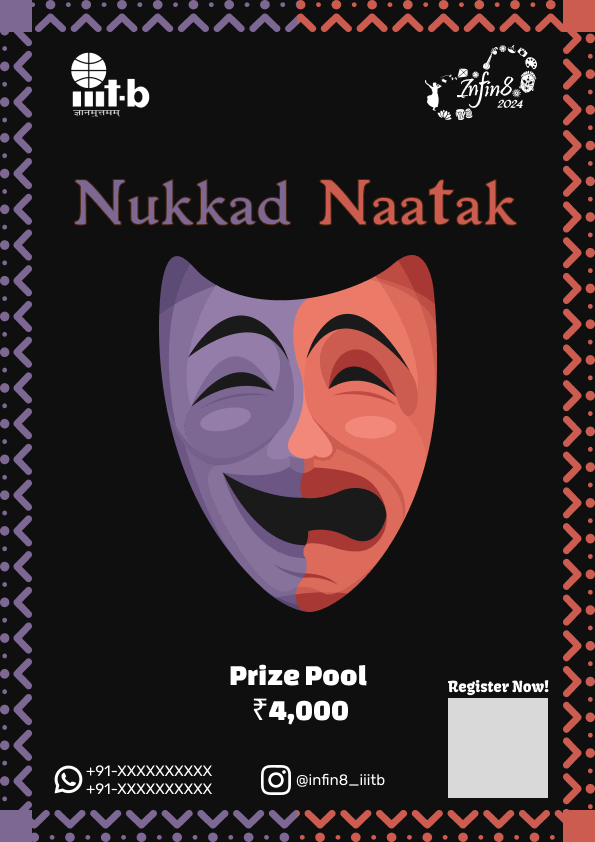
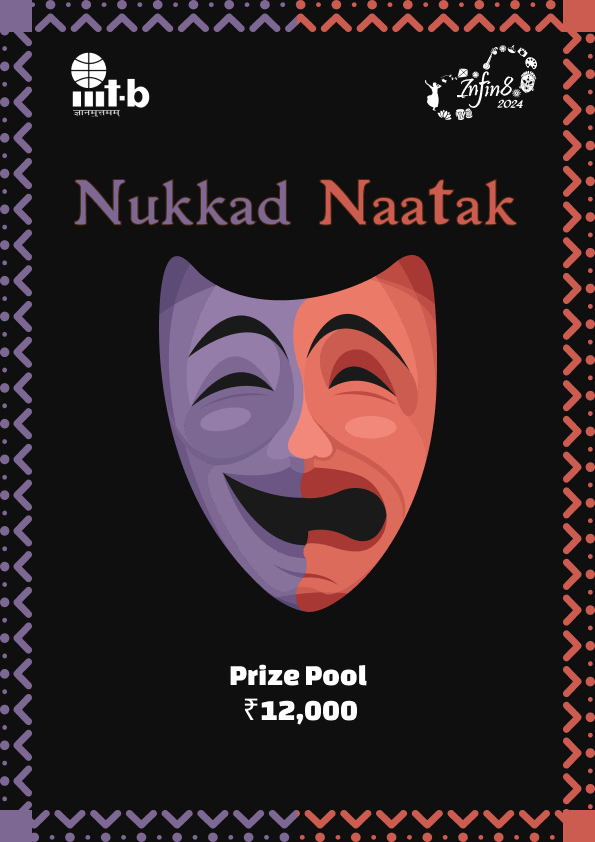
add images

diff --git a/src/content/Events.js b/src/content/Events.js
@@ -177,7 +177,7 @@ const Eventss = [
     {
       title: "Case in Point ",
       description: "A Brand challenge competition where participants get a Business oriented Case study problem on which they have to come up with a solution in the form of presentation and present in front of judges. The Company you are working in is facing a situation (problem statement). Now it's solely up to the participant to turn the company's fortunes around. The task is to come up with solutions and help the company with new strategies and some innovative solutions.",
-      prizePool: 5000,
+      prizePool: 13000,
       eventId: "27",
       lastDate:" 11th Feb 11:59 pm",
       rules:[
@@ -301,7 +301,7 @@ const Eventss = [
       spocs: ["Amar Pratap Singh", "Dhruv Gupta"]
     },
     {
-      title: "Echeos of Expressions",
+      title: "Echoes of Expressions",
       description: "",
       prizePool: 4000,
       eventId: "13",
@@ -697,7 +697,7 @@ const events = [
 
 ,
   {
-    title: "Echeos of Expressions",
+    title: "Echoes of Expressions",
     link:"https://forms.gle/iMTTWLP2d7TnB5yXA",
 
     description: "Amidst the chaos of life, immerse yourself in the cathartic world of Slam Poetry. This competition beckons individuals to take a breather, step onto the stage, and unleash the power of spoken word to express their innermost thoughts, emotions, and reflections.",
@@ -772,7 +772,7 @@ const events = [
     "Speaker Points: The speaker gains a point if the challenge is deemed incorrect. Speakers also earn 2 points if they are speaking when the 60 seconds expire.",
     "Bonus Points: Entertaining challenges and speeches, even if not entirely correct, may receive bonus points at the moderator's discretion. Witty interjections that amuse the audience can lead to mutual point gains for the challenger and speaker.",
     "When a correct challenge is made, the challenger takes over the topic for the remainder of the minute or until they are correctly challenged.",
-    "The game rewards those who make entertaining challenges, offering opportunities for quick points and amusing interjections."
+    "The game rewards those who make entertaining challenges, offering opportunities for quick points and amusing interjections.","Reference - Please watch the first few rounds in the video below for reference. It’s a very fun and light-hearted event so we might have bonus points for entertaining speeches and challenges ;) https://www.youtube.com/watch?v=2Zu-2eNYmMM"
   ],
   contacts: [
     { name: "Vishruth Vijay", number: "9449960095" },
@@ -911,7 +911,7 @@ const events = [
     lastDate:" 10th Feb 11:59 pm",
     rules: [
       "Minimum 2 IIITB members, current or alumni.",
-      "Max 5 in a squad and on time. If the team isn't filled on start time, the team has to play handicapped.",
+      "Max 4 in a squad and on time. If the team isn't filled on start time, the team has to play handicapped.",
       "You are only allowed to play mobile phones. (No tablets and No controllers allowed)",
       "Cheating, aim assists, emulation, wall hacks or any tampering with the BGMI client will lead to instaban from the match and tournament.",
       "Scoring will be based on position and kills",
@@ -949,7 +949,7 @@ const events = [
   ,
   {
     title: "Infinitude",
-    link:"https://forms.gle/SJ1QFAUyKY7SG7A19",
+    link:"https://forms.gle/ikiT38tRQThoJBE56",
 
     description:
       "Step into the cultural tapestry of Infinitude, a group dance competition that adds a dynamic flair to our festivities! Embrace the opportunity with a nominal registration fee and the allure of enticing prizes for the top performers. Let the rhythm of your collective expression become a highlight of our cultural celebration!",
@@ -972,7 +972,7 @@ const events = [
   },
   {
     title: "Cut to the Chase",
-    link:"https://forms.gle/h3966zymr2QeyR2b7",
+    link:"https://docs.google.com/forms/d/e/1FAIpQLSdU8y0o_62fZ_RpcL50Ht-7Ho6RtuYXHCxYpkzPc7O3xL4nbw/viewform?usp=sf_link",
 
     description:
       "A picture speaks a thousand words, a film is a million pictures… do the math! Show off your writing, acting, and editing prowess to influence the masses with your short yet impactful film.",

diff --git a/src/content/OrgComm.js b/src/content/OrgComm.js
@@ -3,60 +3,70 @@ const OrgComm=[
         name:"Rutuja Prabhudesai",
         Rollno:"sac",
         colour:"white",
+        link:"https://www.instagram.com/rutuja.prabhudesai?igsh=bDVjbHU4Y2M3dzkw",
         imageDestination:"https://encrypted-tbn0.gstatic.com/images?q=tbn:ANd9GcSHsHHeEkVexOjk8riVmMH60PXLO_-UQzpBcd12qMNikQswtTrpzJLerzxK1YaKQ9q_9XE&usqp=CAU"
     },
     {
         name:"Aditi Singh",
         Rollno:"sac",
         colour:"white",
+        link:"https://www.instagram.com/aditisingh0409?igsh=MWN0dDk4c3ZmMmg0bw==",
         imageDestination:"https://encrypted-tbn0.gstatic.com/images?q=tbn:ANd9GcSHsHHeEkVexOjk8riVmMH60PXLO_-UQzpBcd12qMNikQswtTrpzJLerzxK1YaKQ9q_9XE&usqp=CAU"
     },
     {
         name:"Soumya Venigalla",
         Rollno:"sac",
         colour:"white",
+        link:"https://www.instagram.com/sowmya.venigalla?igsh=MTk0NzV4Mm9yaGkzNA==",
         imageDestination:"https://encrypted-tbn0.gstatic.com/images?q=tbn:ANd9GcSHsHHeEkVexOjk8riVmMH60PXLO_-UQzpBcd12qMNikQswtTrpzJLerzxK1YaKQ9q_9XE&usqp=CAU"
     },
     {
         name:"Nathan Mathew Verghese",
         Rollno:"sac",
         colour:"white",
+        link:"https://www.instagram.com/nathan.mvee/",
         imageDestination:"https://encrypted-tbn0.gstatic.com/images?q=tbn:ANd9GcSHsHHeEkVexOjk8riVmMH60PXLO_-UQzpBcd12qMNikQswtTrpzJLerzxK1YaKQ9q_9XE&usqp=CAU"
     },
     {
         name:"Kartik Satish Gawande",
         Rollno:"sac",
         colour:"white",
+        link:"https://www.instagram.com/let_me_sing_u_a_waltz?igsh=OWd5MTJxMjV1czh4",
         imageDestination:"https://encrypted-tbn0.gstatic.com/images?q=tbn:ANd9GcSHsHHeEkVexOjk8riVmMH60PXLO_-UQzpBcd12qMNikQswtTrpzJLerzxK1YaKQ9q_9XE&usqp=CAU"
     },
     {
         name:"Pranathi S V",
         Rollno:"sac",
         colour:"white",
+        link:"https://www.instagram.com/svp_tmg?igsh=bm9pZmd1OW93eXJx",
         imageDestination:"https://encrypted-tbn0.gstatic.com/images?q=tbn:ANd9GcSHsHHeEkVexOjk8riVmMH60PXLO_-UQzpBcd12qMNikQswtTrpzJLerzxK1YaKQ9q_9XE&usqp=CAU"
     }
     ,    {
         name:"Amruth Gadepalli",
         Rollno:"sac",
         colour:"white",
+        link:"https://www.instagram.com/i_am_ruth.less?igsh=MTJmZjNxdWdoYjBvbg==",
         imageDestination:"https://encrypted-tbn0.gstatic.com/images?q=tbn:ANd9GcSHsHHeEkVexOjk8riVmMH60PXLO_-UQzpBcd12qMNikQswtTrpzJLerzxK1YaKQ9q_9XE&usqp=CAU"
     }
     ,    {
         name:"Shashank Devarmani",
         Rollno:"sac",
         colour:"white",
+        link:"https://www.instagram.com/shashankdevarmani?igsh=MTJwZzR2NGg3dWhkcw",
         imageDestination:"https://encrypted-tbn0.gstatic.com/images?q=tbn:ANd9GcSHsHHeEkVexOjk8riVmMH60PXLO_-UQzpBcd12qMNikQswtTrpzJLerzxK1YaKQ9q_9XE&usqp=CAU"
     }
     ,    {
         name:"Divyam Sareen",
         Rollno:"sac",
         colour:"white",
+        link:"https://www.instagram.com/divyamsareen?igsh=eXUyaDAxOHN5eG5z",
         imageDestination:"https://encrypted-tbn0.gstatic.com/images?q=tbn:ANd9GcSHsHHeEkVexOjk8riVmMH60PXLO_-UQzpBcd12qMNikQswtTrpzJLerzxK1YaKQ9q_9XE&usqp=CAU"
     }
     ,    {
         name:"Khushi Yadav",
         Rollno:"sac",
         colour:"white",
+        link:"https://www.instagram.com/khushi_yadawa?igsh=MWhkbnN4OXJjY2lxbA==",
         imageDestination:"https://encrypted-tbn0.gstatic.com/images?q=tbn:ANd9GcSHsHHeEkVexOjk8riVmMH60PXLO_-UQzpBcd12qMNikQswtTrpzJLerzxK1YaKQ9q_9XE&usqp=CAU"
     }
 ]

diff --git a/src/content/DesignTeam.js b/src/content/DesignTeam.js
@@ -3,36 +3,42 @@ const DesignTeam=[
         name:"Bijeet Basak",
         Rollno:"des",
         colour:"white",
+        link:"https://www.instagram.com/bijeet1221?igsh=MXRqNzYycjd1anh4cA==",
         imageDestination:"https://encrypted-tbn0.gstatic.com/images?q=tbn:ANd9GcSHsHHeEkVexOjk8riVmMH60PXLO_-UQzpBcd12qMNikQswtTrpzJLerzxK1YaKQ9q_9XE&usqp=CAU"
     },
     {
         name:"Santhosh Vodnala",
         Rollno:"des",
         colour:"white",
+        link:"https://www.instagram.com/santhosh_v47?igsh=M2NwdDJuaXJyNmxv",
         imageDestination:"https://encrypted-tbn0.gstatic.com/images?q=tbn:ANd9GcSHsHHeEkVexOjk8riVmMH60PXLO_-UQzpBcd12qMNikQswtTrpzJLerzxK1YaKQ9q_9XE&usqp=CAU"
     },
     {
         name:"Saniya Ismail",
         Rollno:"des",
         colour:"white",
+        link:"https://www.instagram.com/saniya.ismail__?igsh=MWc4cjN4MWV1a2tvcw==",
         imageDestination:"https://encrypted-tbn0.gstatic.com/images?q=tbn:ANd9GcSHsHHeEkVexOjk8riVmMH60PXLO_-UQzpBcd12qMNikQswtTrpzJLerzxK1YaKQ9q_9XE&usqp=CAU"
     },
     {
         name:"Tahir Khadarabad",
         Rollno:"des",
         colour:"white",
+        link:"https://www.instagram.com/iamtah1r/",
         imageDestination:"https://encrypted-tbn0.gstatic.com/images?q=tbn:ANd9GcSHsHHeEkVexOjk8riVmMH60PXLO_-UQzpBcd12qMNikQswtTrpzJLerzxK1YaKQ9q_9XE&usqp=CAU"
     },
     {
         name:"Keshav Goyal",
         Rollno:"des",
         colour:"white",
+        link:"https://www.instagram.com/kesshavv__/",
         imageDestination:"https://encrypted-tbn0.gstatic.com/images?q=tbn:ANd9GcSHsHHeEkVexOjk8riVmMH60PXLO_-UQzpBcd12qMNikQswtTrpzJLerzxK1YaKQ9q_9XE&usqp=CAU"
     },
     {
         name:"Radhika Aggarwal",
         Rollno:"des",
         colour:"white",
+        link:"https://www.instagram.com/_radhika20?igsh=MXZzcWoxMGR2OXh1ZQ==",
         imageDestination:"https://encrypted-tbn0.gstatic.com/images?q=tbn:ANd9GcSHsHHeEkVexOjk8riVmMH60PXLO_-UQzpBcd12qMNikQswtTrpzJLerzxK1YaKQ9q_9XE&usqp=CAU"
     }
 ]

diff --git a/src/components/Timeline/Timeline.jsx b/src/components/Timeline/Timeline.jsx
@@ -7,9 +7,9 @@ import lost from "../../assets/timelineEvents/lost.jpg";
 import Nrittas from "../../assets/timelineEvents/nrittas.png";
 import Nrittag from "../../assets/timelineEvents/nrittag.png";
 import cards from "../../assets/timelineEvents/cards.png";
+import codm from "../../assets/timelineEvents/codm.png";
 
 import sargam from "../../assets/timelineEvents/sargam.png";
-import codm from "../../assets/timelineEvents/codm.png";
 import bgmi from "../../assets/timelineEvents/pubg.png";
 import league from "../../assets/timelineEvents/league.png";
 import jam from "../../assets/timelineEvents/just.png";
@@ -17,6 +17,7 @@ import rang from "../../assets/timelineEvents/stage.png";
 import math from "../../assets/timelineEvents/math.png";
 import vedanta from "../../assets/timelineEvents/vedanta.png";
 import slam from "../../assets/timelineEvents/slam.png";
+import casein from "../../assets/timelineEvents/case.png";
 
 import gulp from "../../assets/timelineEvents/gulp.png";
 import brush from "../../assets/timelineEvents/brush.png";
@@ -207,7 +208,7 @@ const Timeline = () => {
         <img src={rang} className="gallery-item gallery-item-6" alt="" onClick={()=>navigate("/events/9")} />
         <img src={math} className="gallery-item gallery-item-7" alt=""  onClick={()=>navigate("/events/17")}/>
         <img src={vedanta} className="gallery-item gallery-item-8" alt="" onClick={()=>navigate("/events/18")} />
-        <img src={league} className="gallery-item gallery-item-9" alt="" onClick={()=>navigate("/events/5")} />
+        <img src={casein} className="gallery-item gallery-item-9" alt="" onClick={()=>navigate("/events/5")} />
         <button
           onClick={handlePrevClick}
           className="button button-prev bg-yellow rounded-full w-20 h-20 flex items-center justify-center"

diff --git a/src/content/WebDevTeam.js b/src/content/WebDevTeam.js
@@ -3,24 +3,28 @@ const WebDevTeam=[
         name:"Rudra Pathak",
         Rollno:"web",
         colour:"white",
+        // link:"",
         imageDestination:"https://encrypted-tbn0.gstatic.com/images?q=tbn:ANd9GcSHsHHeEkVexOjk8riVmMH60PXLO_-UQzpBcd12qMNikQswtTrpzJLerzxK1YaKQ9q_9XE&usqp=CAU"
     },
     {
         name:"Ananthakrishna K",
         Rollno:"web",
         colour:"white",
+        link:"https://www.instagram.com/ananthak_k/",
         imageDestination:"https://encrypted-tbn0.gstatic.com/images?q=tbn:ANd9GcSHsHHeEkVexOjk8riVmMH60PXLO_-UQzpBcd12qMNikQswtTrpzJLerzxK1YaKQ9q_9XE&usqp=CAU"
     },
     {
         name:"Aryaman Pathak",
         Rollno:"web",
         colour:"white",
+        link:"https://www.instagram.com/aryaman__pathak?igsh=MXR6bGlkMWxnZDgxOQ==   ",
         imageDestination:"https://encrypted-tbn0.gstatic.com/images?q=tbn:ANd9GcSHsHHeEkVexOjk8riVmMH60PXLO_-UQzpBcd12qMNikQswtTrpzJLerzxK1YaKQ9q_9XE&usqp=CAU"
     },
     {
         name:"Vaibhav Mittal",
         Rollno:"web",
         colour:"white",
+        link:"https://www.instagram.com/vebsterrrr24?igsh=enRrM3U4MWc1d2x3",
         imageDestination:"https://encrypted-tbn0.gstatic.com/images?q=tbn:ANd9GcSHsHHeEkVexOjk8riVmMH60PXLO_-UQzpBcd12qMNikQswtTrpzJLerzxK1YaKQ9q_9XE&usqp=CAU"
     },
 ]

diff --git a/src/pages/Team.jsx b/src/pages/Team.jsx
@@ -101,7 +101,7 @@ const Team = () => {
                       name={element.name}
                       colour={"yellow"}
                       imageDestination={`${element.Rollno}${index+1}.jpeg`}
-                      link={'google.com'}
+                      link={element.link}
                       />
                   </div>
               )

diff --git a/src/components/TeamCard/TeamCard.jsx b/src/components/TeamCard/TeamCard.jsx
@@ -3,7 +3,7 @@ import "./TeamCard.css";
 
 const TeamCard = ({ name, Rollno, colour, imageDestination,link }) => {
   return (
-    <div className="max-w-xs overflow-hidden bg-white shadow-lg">
+    <div className="card-team overflow-hidden bg-white shadow-lg">
       <img
         className="object-cover w-full h-40"
         src={imageDestination}

diff --git a/src/components/TeamCard/TeamCard.css b/src/components/TeamCard/TeamCard.css
@@ -8,3 +8,10 @@
 .text2 {
     font-family: 'Poly';
 }
+
+@media (max-width:500px){
+    .card-team{
+     width: 85vw;   
+    }
+
+}
